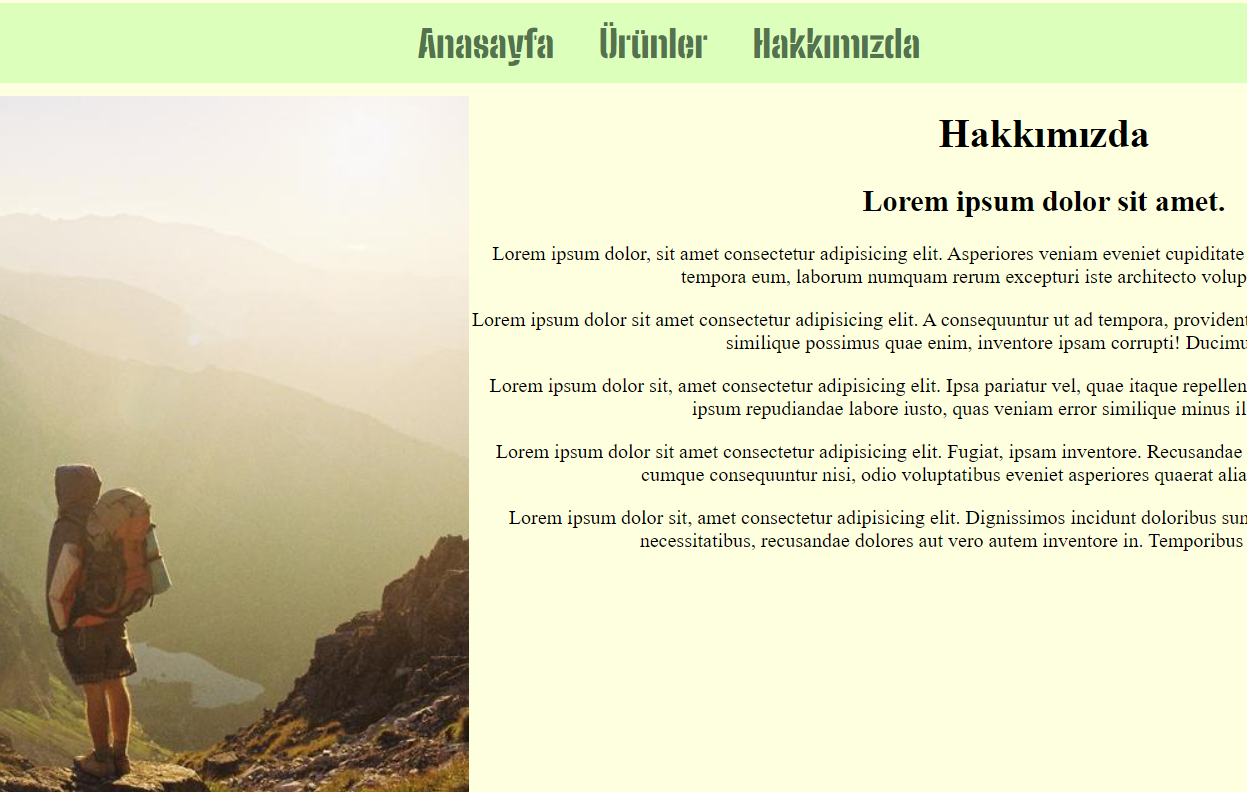
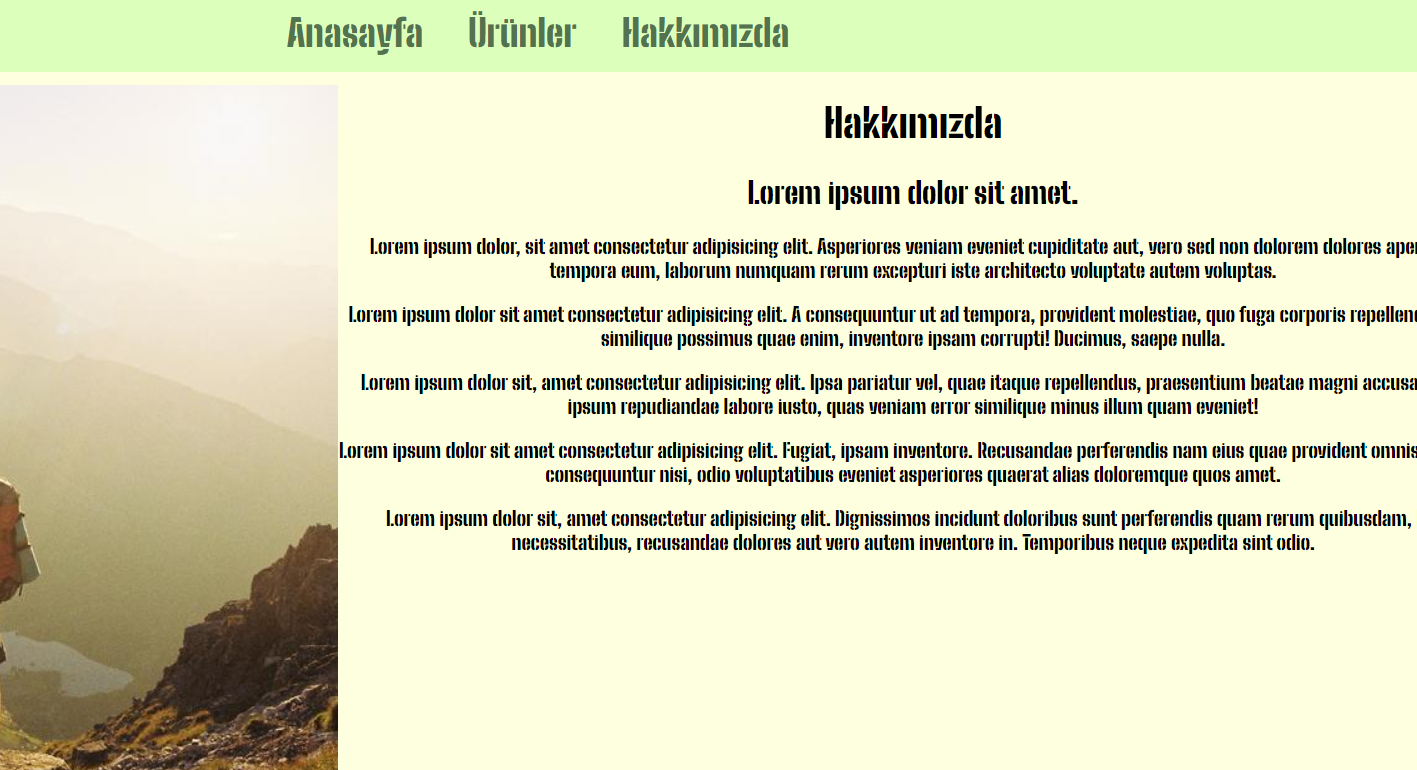
Second commit

diff --git a/about.html b/about.html
@@ -20,14 +20,14 @@
         </nav>
      </header>
     
-    <div style="text-align: center;float: left; margin-top: 10px;">
+    <div id ="ilk">
         
        <img src="https://picsum.photos/id/177/600/600" alt="">
 
 
     </div>
 
-    <div style="text-align:center; display:inline;">
+    <div id ="ikinci" style="text-align:center; display:inline;">
 
         <h1>Hakkımızda</h1>
         <h2>Lorem ipsum dolor sit amet.</h2>

diff --git a/style.css b/style.css
@@ -82,3 +82,16 @@ body{
   left:12%;
  
 }
+
+#ilk{
+
+  text-align: center;
+  float: left; 
+  margin-top: 10px;
+
+}
+#ikinci{
+  text-align:center; 
+  display:inline;
+  font-family:'Big Shoulders Stencil Display', cursive ;
+}
